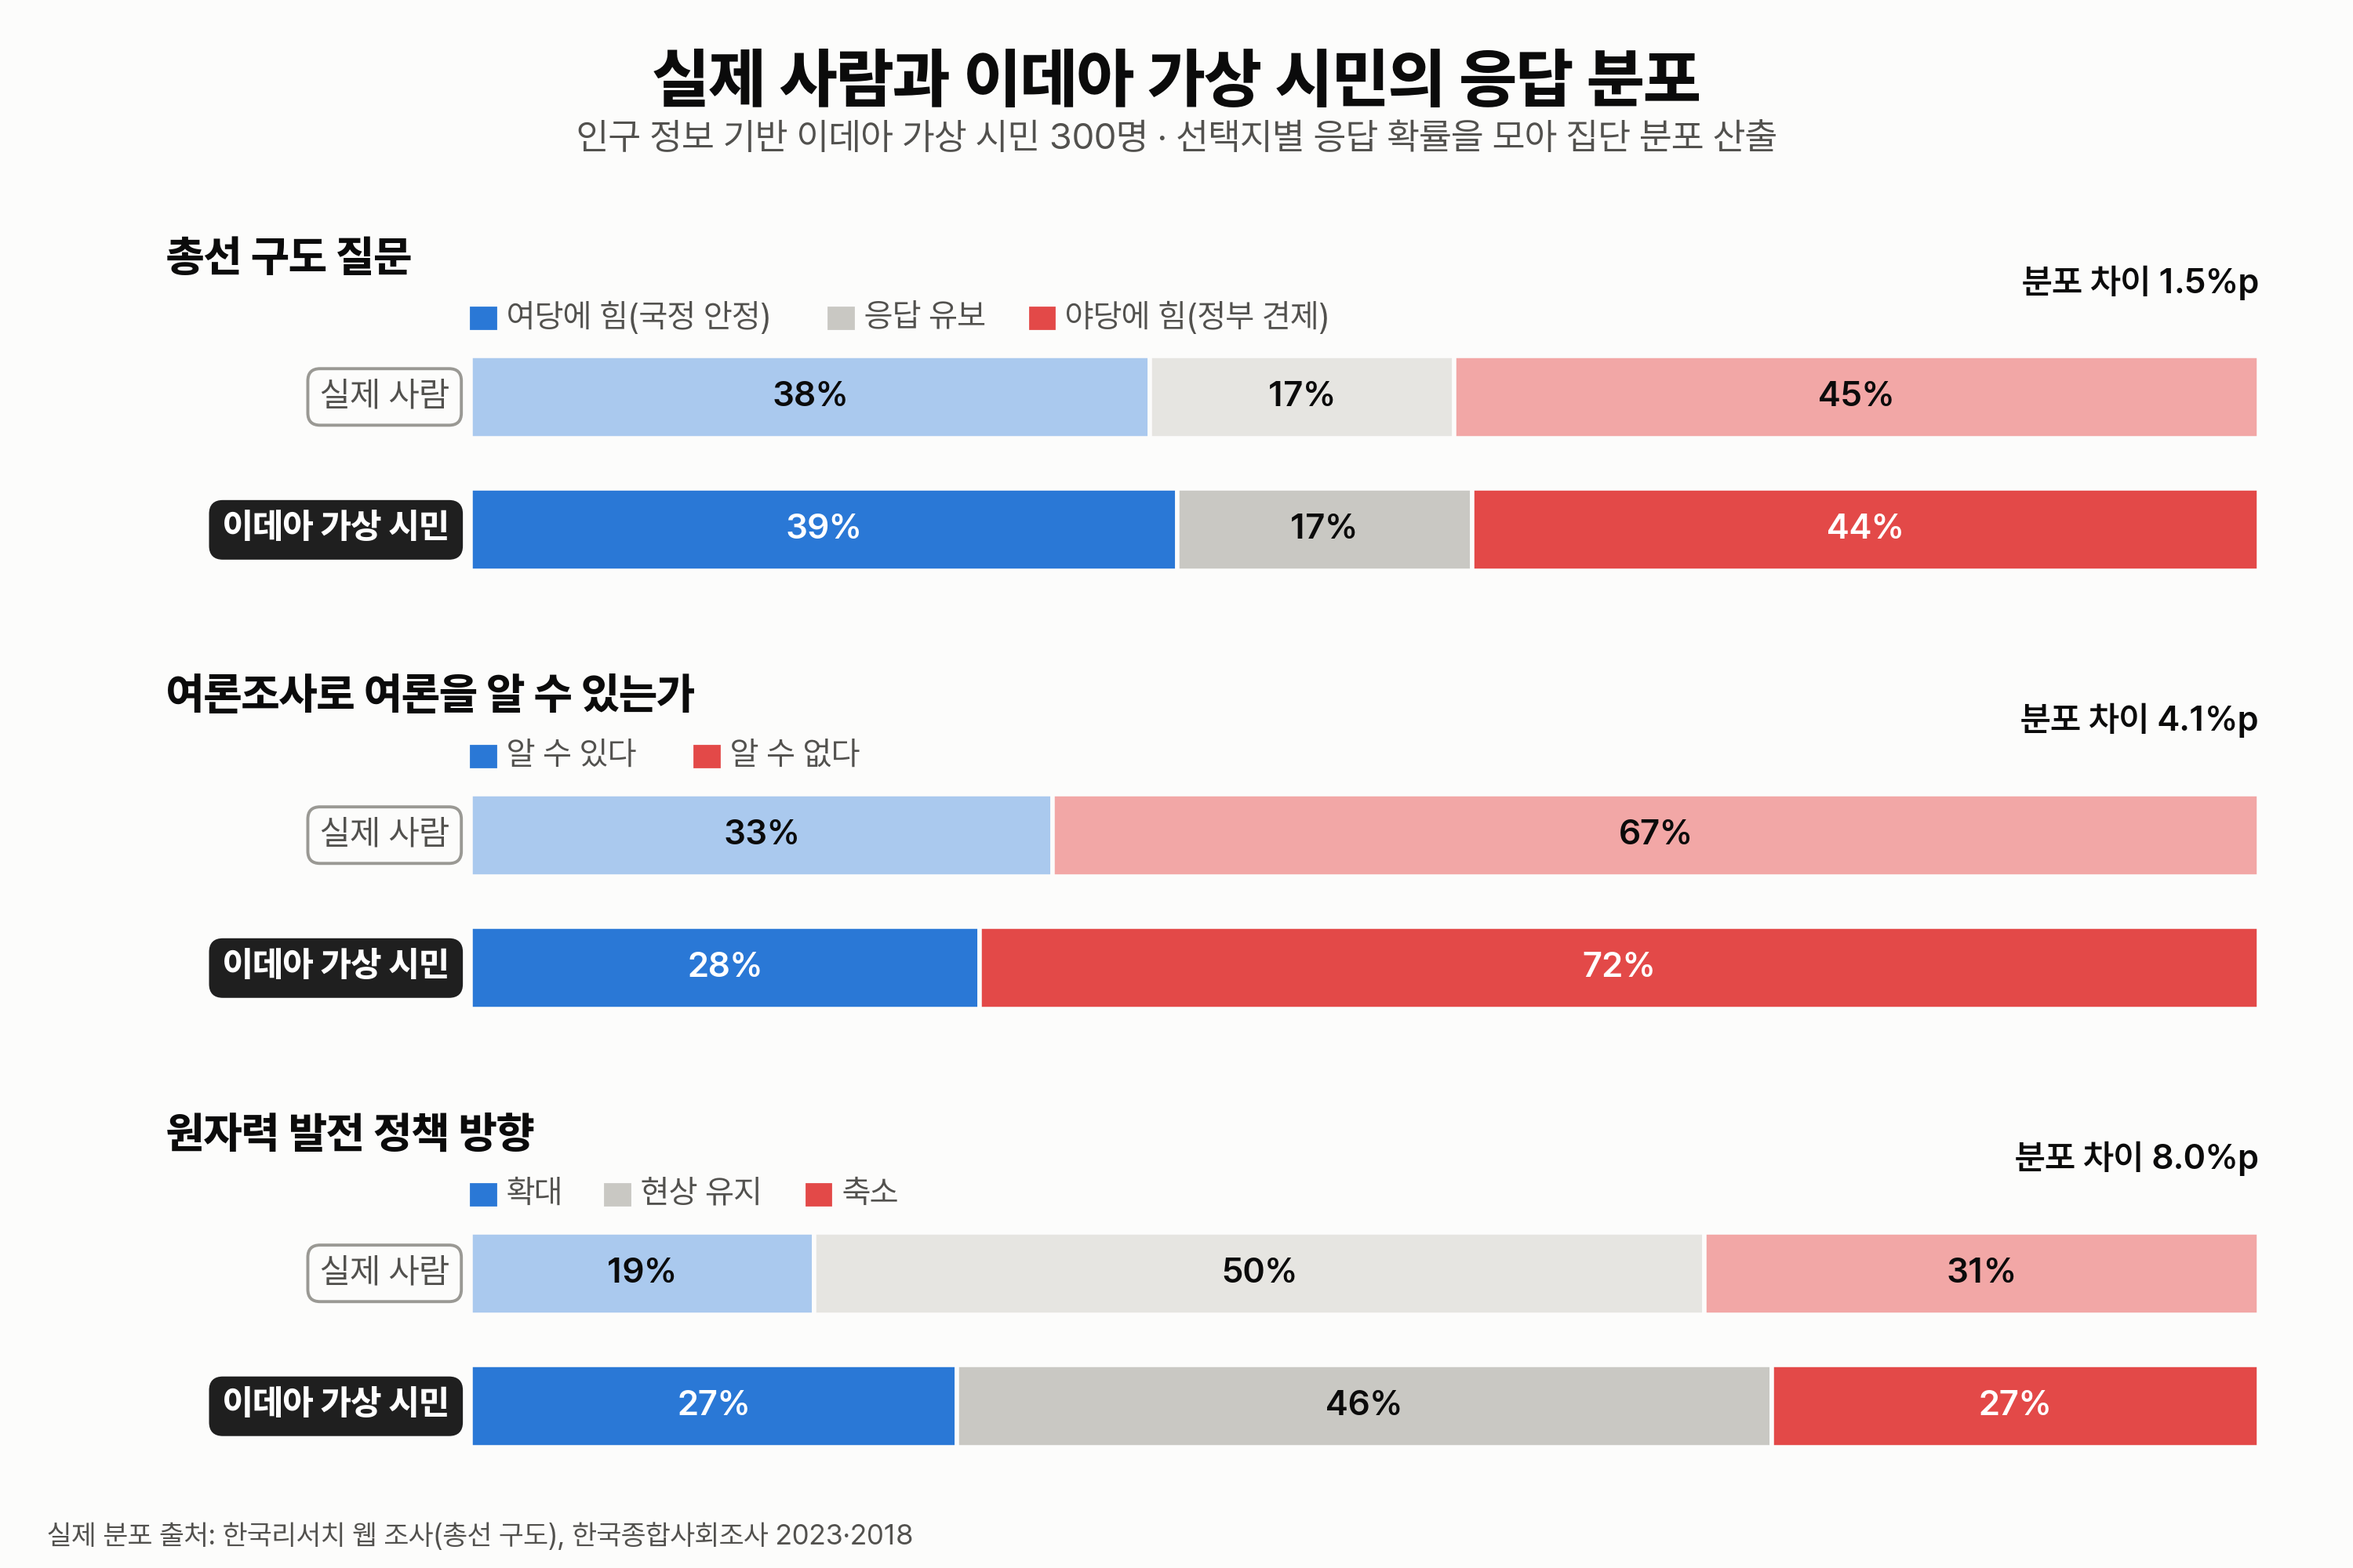
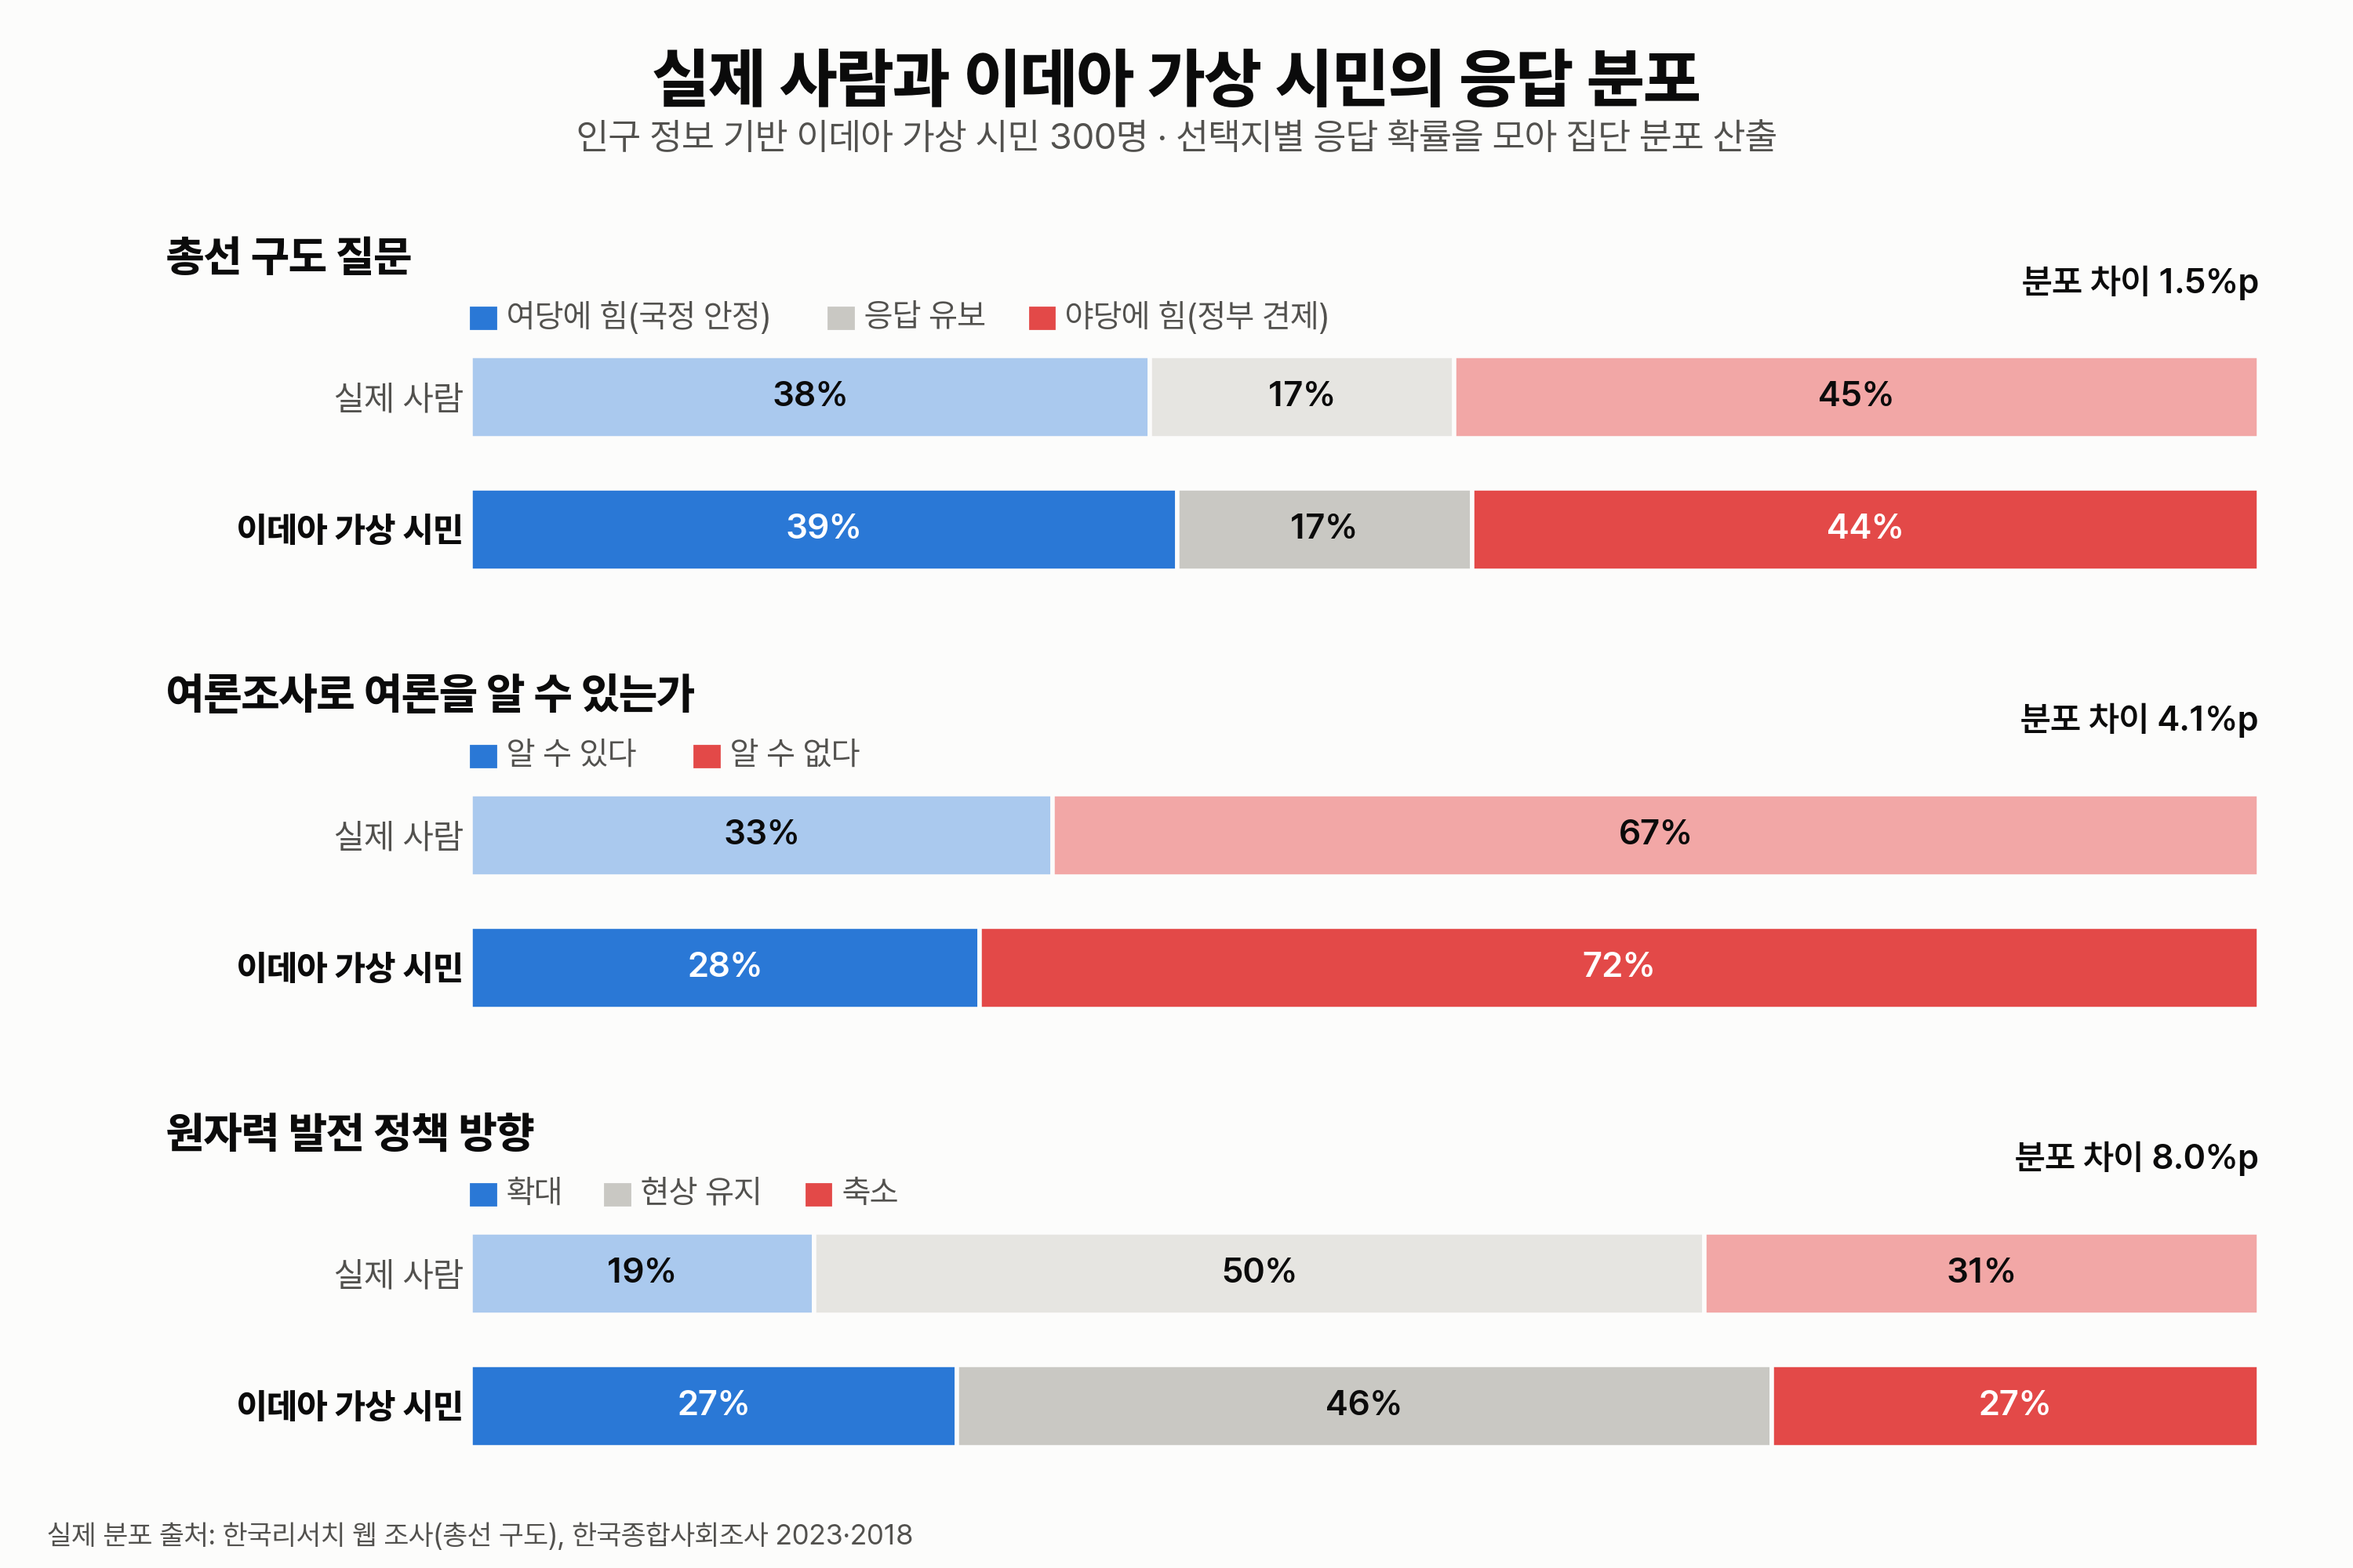
docs: chart A — drop pill labels, plain row labels with bold synthetic row (EXP-010)

diff --git a/scripts/exp010_plot_candidates.py b/scripts/exp010_plot_candidates.py
@@ -116,14 +116,11 @@ def cand_A():
                     ax.text(left + v / 2, row, f"{v:.0f}%", ha="center", va="center",
                             fontsize=FS["val"], fontweight="semibold", color=tc)
                 left += v
-        ax.set_yticks([])
-        # 행 이름: 실제 = 테두리 라벨, 이데아 = 채운 라벨
-        ax.text(-0.012, 0, "실제 사람", transform=ax.get_yaxis_transform(), ha="right", va="center",
-                fontsize=FS["tick"], color=INK2,
-                bbox=dict(boxstyle="round,pad=0.35", fc=SURF, ec="#9a9994", lw=1.4))
-        ax.text(-0.012, 1, "이데아 가상 시민", transform=ax.get_yaxis_transform(), ha="right",
-                va="center", fontsize=FS["tick"], color="white", fontweight="bold",
-                bbox=dict(boxstyle="round,pad=0.35", fc="#1f1f1f", ec="#1f1f1f", lw=1.4))
+        ax.set_yticks([0, 1], ["실제 사람", "이데아 가상 시민"], fontsize=FS["tick"])
+        real_lab, idea_lab = ax.get_yticklabels()
+        real_lab.set_color(INK2)
+        idea_lab.set_color(INK)
+        idea_lab.set_fontweight("bold")
         ax.invert_yaxis()
         ax.set_xlim(0, 100)
         ax.set_xticks([])
